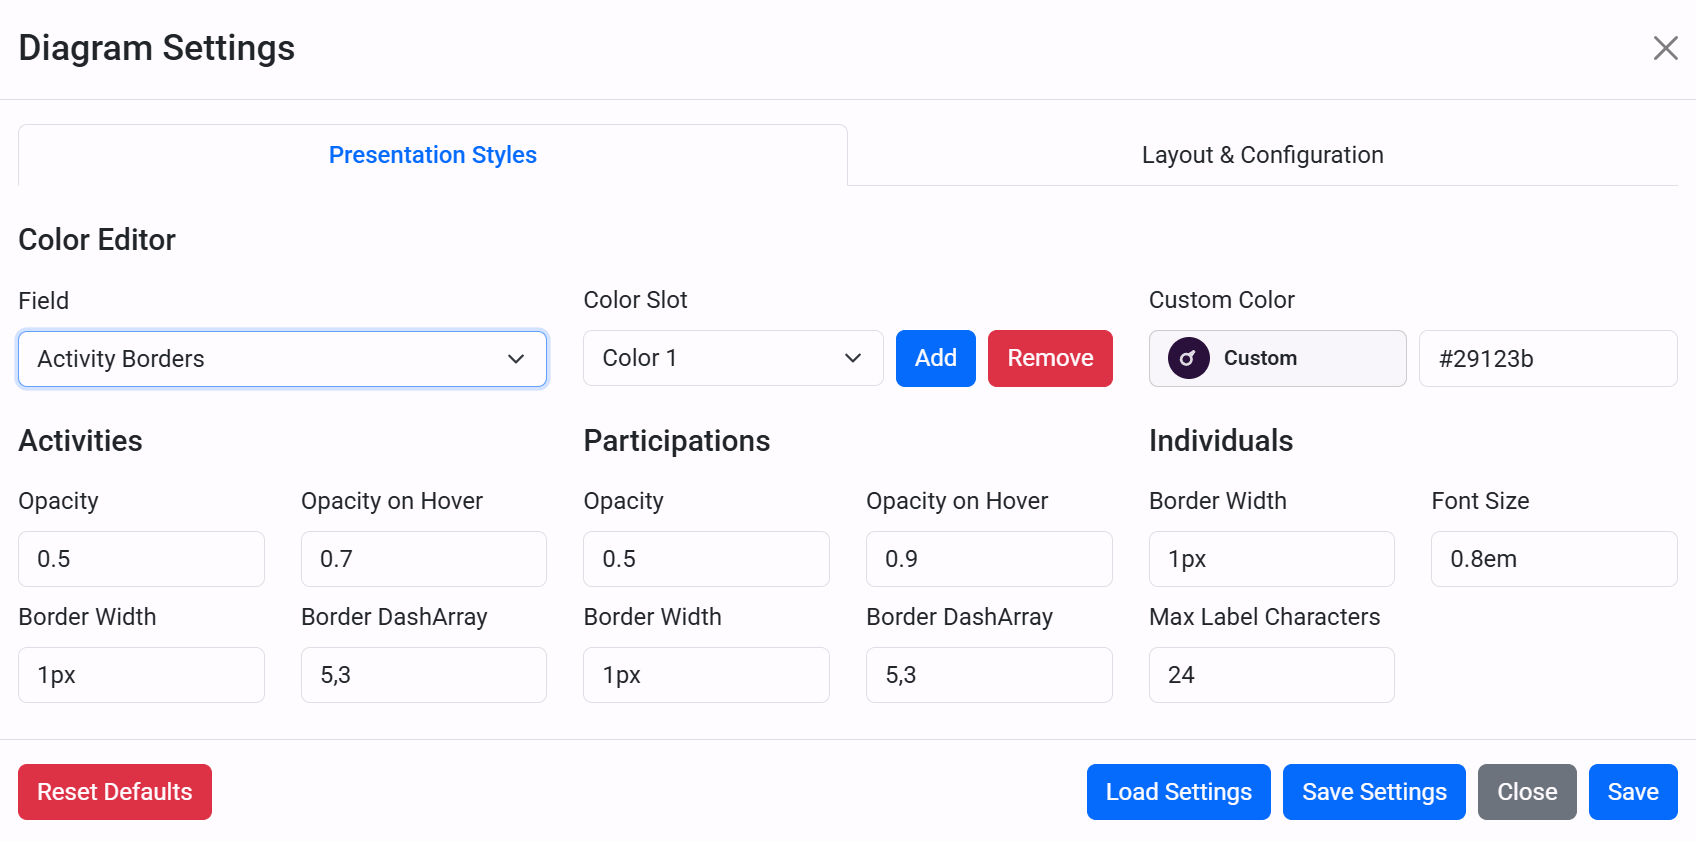
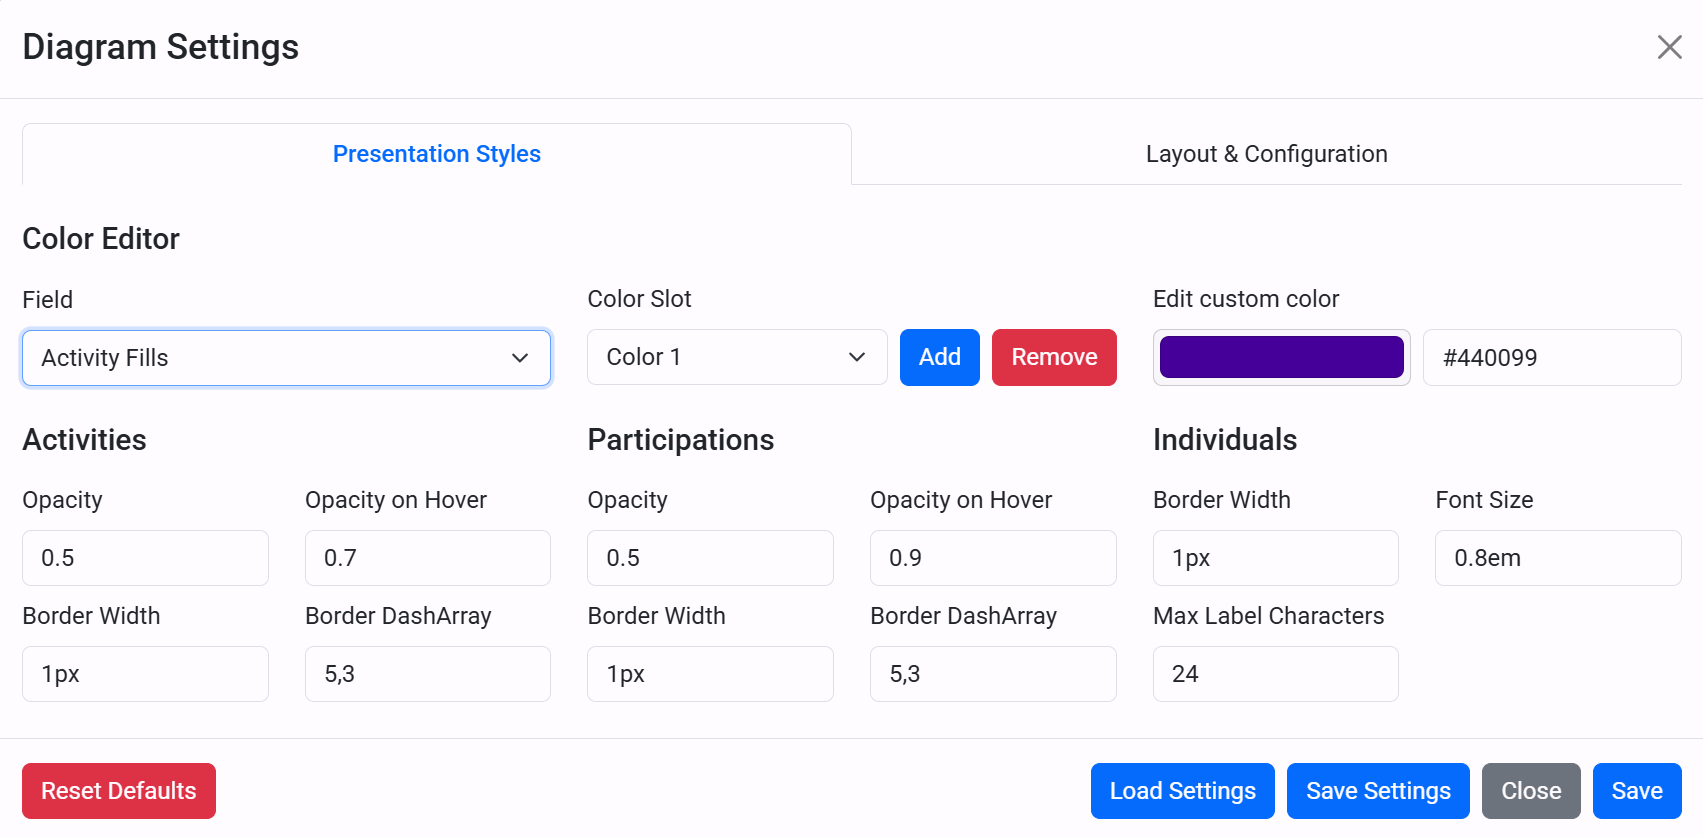
feat: enhance appearance settings with custom color selection and styling updates

diff --git a/editor-app/styles/globals.css b/editor-app/styles/globals.css
@@ -2707,8 +2707,29 @@ html.app-custom-theme .breadcrumb-wrapper .breadcrumb-item a:hover {
   margin-top: 0.75rem;
 }
 .color-scheme-custom-btn {
-  flex: 0 1 auto;
-  max-width: 220px;
+  flex: 0 0 calc((100% - 1rem) / 3);
+  max-width: calc((100% - 1rem) / 3);
+  min-height: calc(1.75rem + 1rem + 4px);
+}
+
+.color-scheme-custom-hex-inline {
+  border: 1px solid var(--bs-border-color-translucent, #dee2e6) !important;
+  background: #fff !important;
+  box-shadow: none !important;
+  padding: 0.32rem 0.5rem !important;
+  height: auto !important;
+  min-height: 0 !important;
+  font-size: 0.88rem !important;
+  font-weight: 500;
+  color: var(--bs-body-color);
+  line-height: 1.2;
+  border-radius: 0.45rem !important;
+}
+
+.color-scheme-custom-hex-inline:focus {
+  border-color: rgba(var(--app-accent-rgb, 13, 110, 253), 0.55) !important;
+  background: #fff !important;
+  box-shadow: 0 0 0 0.12rem rgba(var(--app-accent-rgb, 13, 110, 253), 0.16) !important;
 }
 .color-scheme-native-picker {
   position: absolute;
@@ -2726,22 +2747,14 @@ html.app-custom-theme .breadcrumb-wrapper .breadcrumb-item a:hover {
 .color-scheme-custom-btn:hover {
   border-color: var(--bs-secondary-color, #adb5bd);
 }
-.color-scheme-hex-input-standalone {
-  height: calc(1.75rem + 1rem + 4px) !important;
-  min-height: calc(1.75rem + 1rem + 4px) !important;
-  max-width: 100px !important;
-  font-size: 0.88rem !important;
-  padding: 0.5rem 0.5rem !important;
-  border-radius: 0.5rem !important;
-}
 .color-scheme-reset-btn {
   height: calc(1.75rem + 1rem + 4px) !important;
   min-height: calc(1.75rem + 1rem + 4px) !important;
   display: flex !important;
   align-items: center !important;
   justify-content: center !important;
-  padding: 0 1rem !important;
-  border-radius: 0.5rem !important;
+  padding: 0.5rem 0.75rem !important;
+  border-radius: 0.65rem !important;
 }
 
 @media (max-width: 1599.98px) and (min-width: 992px) {
@@ -2803,19 +2816,17 @@ html.app-custom-theme .breadcrumb-wrapper .breadcrumb-item a:hover {
     font-size: 0.82rem;
   }
 
-  .color-scheme-hex-input-standalone {
-    height: calc(1.5rem + 0.8rem + 4px) !important;
-    min-height: calc(1.5rem + 0.8rem + 4px) !important;
-    max-width: 92px !important;
+  .color-scheme-custom-hex-inline {
     font-size: 0.82rem !important;
-    padding: 0.35rem 0.45rem !important;
+    padding: 0.28rem 0.42rem !important;
   }
 
   .color-scheme-reset-btn {
     height: calc(1.5rem + 0.8rem + 4px) !important;
     min-height: calc(1.5rem + 0.8rem + 4px) !important;
-    padding: 0 0.8rem !important;
+    padding: 0.4rem 0.6rem !important;
     font-size: 0.82rem !important;
+    border-radius: 0.55rem !important;
   }
 }
 
@@ -2833,6 +2844,15 @@ html.app-custom-theme .breadcrumb-wrapper .breadcrumb-item a:hover {
 
   .color-scheme-btn {
     padding: 0.35rem 0.5rem;
+  }
+
+  .color-scheme-custom-btn {
+    flex-basis: calc((100% - 1rem) / 3);
+    max-width: calc((100% - 1rem) / 3);
+  }
+
+  .color-scheme-reset-btn {
+    padding: 0.35rem 0.5rem !important;
   }
 }
 
@@ -2864,6 +2884,20 @@ html.app-custom-theme .breadcrumb-wrapper .breadcrumb-item a:hover {
   border-radius: var(--bs-border-radius, 0.375rem);
   background: var(--bs-tertiary-bg, #f8f9fa);
   cursor: pointer;
+}
+
+.config-color-picker-btn-swatch {
+  display: block;
+  padding: 0.25rem;
+}
+
+.config-color-picker-rect {
+  position: relative;
+  display: block;
+  width: 100%;
+  height: calc(2.25rem - 0.5rem);
+  border-radius: var(--bs-border-radius, 0.375rem);
+  border: 1px solid var(--bs-border-color-translucent, #dee2e6);
 }
 
 .config-color-picker-label {

diff --git a/editor-app/components/AppearanceModal.tsx b/editor-app/components/AppearanceModal.tsx
@@ -194,6 +194,8 @@ export default function AppearanceModal({ show, setShow }: Props) {
   if (!mounted) return null;
 
   const isPreset = THEME_COLORS.some((c) => c.value === draftColor);
+  const isCustomSelected = !isDefaultProfileMode && !isPreset;
+  const customRingColor = selectionBorderColor(draftColor);
 
   return (
     <Modal
@@ -268,11 +270,17 @@ export default function AppearanceModal({ show, setShow }: Props) {
             })}
           </div>
           <div className="color-scheme-custom-row">
-            <label className="color-scheme-btn color-scheme-custom-btn">
+            <label
+              className={`color-scheme-btn color-scheme-custom-btn${isCustomSelected ? " is-selected" : ""}`}
+              style={isCustomSelected ? { borderColor: customRingColor, boxShadow: `0 0 0 1px ${customRingColor}` } : undefined}
+              aria-label="Pick a custom colour"
+            >
               <span className="color-scheme-circle" style={{ background: draftColor, position: "relative" }}>
-                <svg viewBox="0 0 16 16" fill="white" className="color-scheme-check" style={{ opacity: 0.85 }} aria-hidden>
-                  <path d="M12.433 2.626a1 1 0 0 1 .262 1.39l-.009.013-2.1 3.039a4.776 4.776 0 0 1 .46 2.057c0 2.672-2.19 4.875-4.875 4.875S1.296 11.797 1.296 9.125s2.19-4.875 4.875-4.875c.608 0 1.19.112 1.725.316l3.147-2.198a1 1 0 0 1 1.39.258zM6.17 6.25a2.875 2.875 0 1 0 0 5.75 2.875 2.875 0 0 0 0-5.75z" />
-                </svg>
+                {isCustomSelected && (
+                  <svg viewBox="0 0 16 16" className="color-scheme-check" fill="white" aria-hidden>
+                    <path d="M13.485 3.929a1 1 0 0 1 .057 1.414l-6 6.5a1 1 0 0 1-1.452.012l-3-3a1 1 0 1 1 1.414-1.414L6.95 9.88l5.293-5.893a1 1 0 0 1 1.414-.057z" />
+                  </svg>
+                )}
                 <Form.Control
                   type="color"
                   value={draftColor}
@@ -284,19 +292,18 @@ export default function AppearanceModal({ show, setShow }: Props) {
                   title="Pick a custom colour"
                 />
               </span>
-              <span className="color-scheme-label">Custom</span>
+              <Form.Control
+                type="text"
+                value={draftColor}
+                onChange={(e) => {
+                  const v = e.target.value;
+                  setDraftColor(v);
+                  setIsDefaultProfileMode(false);
+                }}
+                placeholder="#000000"
+                className="color-scheme-custom-hex-inline"
+              />
             </label>
-            <Form.Control
-              type="text"
-              value={draftColor}
-              onChange={(e) => {
-                const v = e.target.value;
-                setDraftColor(v);
-                setIsDefaultProfileMode(false);
-              }}
-              placeholder="#000000"
-              className="color-scheme-hex-input-standalone"
-            />
             {!isPreset && draftColor !== "#0d6efd" && (
               <Button
                 variant="outline-secondary"

diff --git a/editor-app/components/SetConfig.tsx b/editor-app/components/SetConfig.tsx
@@ -531,13 +531,10 @@ const SetConfig = (props: Props) => {
                       )}
                       <Col xs={12} lg={selectedColorTarget.kind === "array" ? 4 : 4}>
                         <Form.Group className="mb-2" controlId="formSharedColorPicker">
-                          <Form.Label>Custom Color</Form.Label>
+                          <Form.Label>Edit custom color</Form.Label>
                           <div className="config-color-custom-row">
-                            <label className="config-color-picker-btn mb-0">
-                              <span className="color-scheme-circle" style={{ background: selectedColorValue, position: "relative" }}>
-                                <svg viewBox="0 0 16 16" fill="white" className="color-scheme-check" style={{ opacity: 0.85 }} aria-hidden>
-                                  <path d="M12.433 2.626a1 1 0 0 1 .262 1.39l-.009.013-2.1 3.039a4.776 4.776 0 0 1 .46 2.057c0 2.672-2.19 4.875-4.875 4.875S1.296 11.797 1.296 9.125s2.19-4.875 4.875-4.875c.608 0 1.19.112 1.725.316l3.147-2.198a1 1 0 0 1 1.39.258zM6.17 6.25a2.875 2.875 0 1 0 0 5.75 2.875 2.875 0 0 0 0-5.75z" />
-                                </svg>
+                            <label className="config-color-picker-btn config-color-picker-btn-swatch mb-0" aria-label="Pick a custom colour">
+                              <span className="config-color-picker-rect" style={{ background: selectedColorValue }}>
                                 <Form.Control
                                   type="color"
                                   value={selectedColorValue}
@@ -546,7 +543,6 @@ const SetConfig = (props: Props) => {
                                   title="Pick a custom colour"
                                 />
                               </span>
-                              <span className="config-color-picker-label">Custom</span>
                             </label>
                             <Form.Control
                               type="text"
